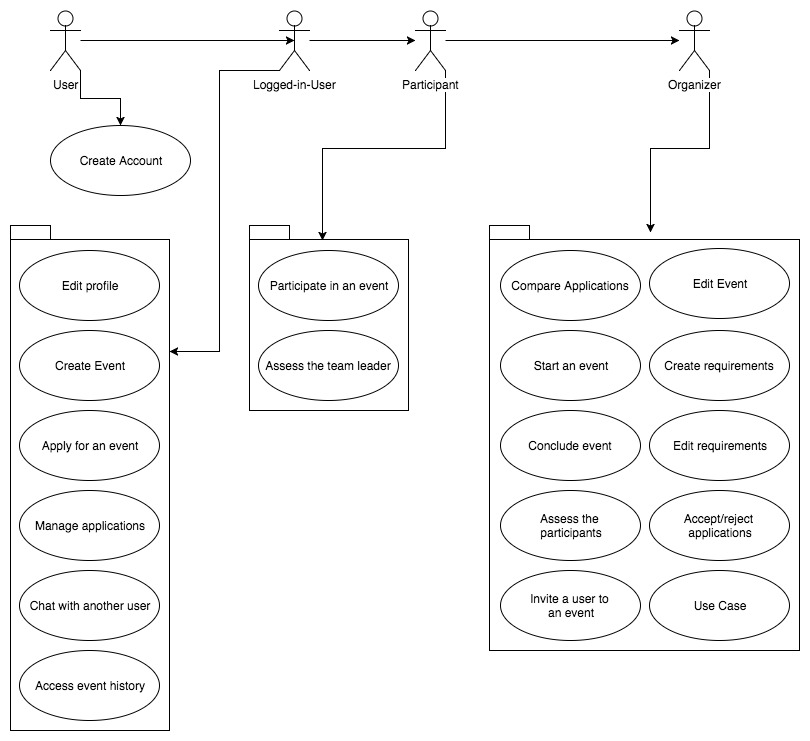
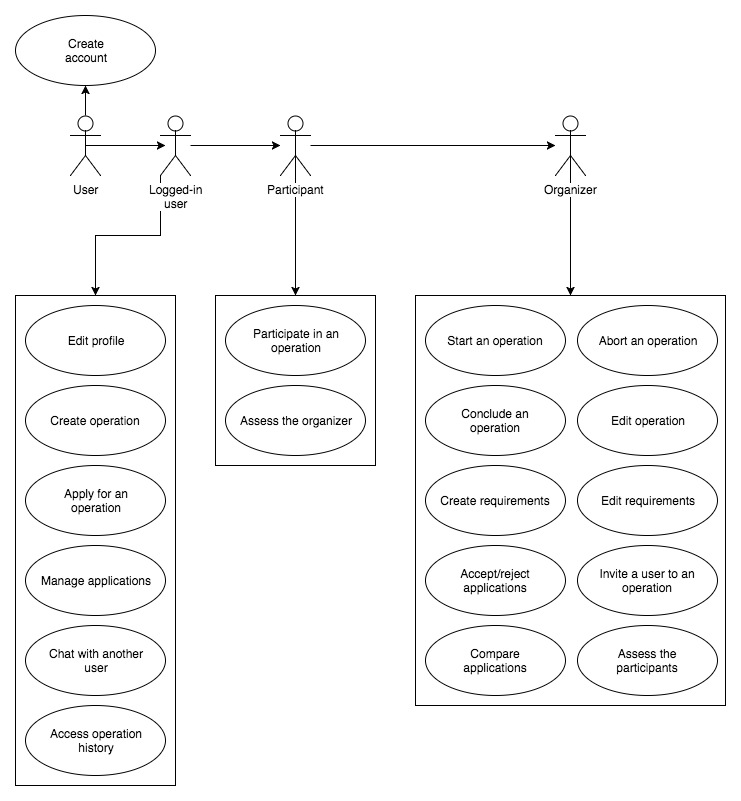
WIP Refactored event to operation, changed UCD

diff --git a/SRS.md b/SRS.md
@@ -3,10 +3,10 @@
 ## 1.1 Purpose
 This document contains the complete SRS of the Project Puerto Rico.
 Project Puerto Rico is going to be designed to make dealing with problems that the government is not talking about easy.
-A web interface is designed to allow users from all over the world to create events and specify the resources they need.
-These events can contain a description, detailed information that only attendees see, and data such as the location and the date of the event.
-Others who wish to participate can apply with their resources and then participate in the event.
-Profiles of users inform about the skills and events they have already participated in, to make it easier to find qualified personnel.
+A web interface is designed to allow users from all over the world to create operations and specify the resources they need.
+These operations can contain a description, detailed information that only attendees see, and data such as the location and the date of the operation.
+Others who wish to participate can apply with their resources and then participate in the operation.
+Profiles of users inform about the skills and operations they have already participated in, to make it easier to find qualified personnel.
 Below every technical aspect and feature is described and/or determined.
 
 ## 1.2 Scope
@@ -14,14 +14,10 @@ This document covers the entire project in every aspect.
 
 ## 1.3 Definitions, Acronyms, Abbreviations
 - **PPR** - Project Puerto Rico
+- **PPRD** - Project Puerto Rico Documentation
 - **UC** - Use Case
-- **UCD** - Use Case Diagram
-- **OUCD** - Overall Use Case Diagram
-- **SAD** - Software Architecture Document
-- **RFC** - Request for Comments
 
 ## 1.4 References
-
 |			Title									                            |	Date		|
 |-------------------------------------------------------------------------------|---------------|
 | [PPR Blog](https://poetzschstroh.wordpress.com/)                              | 21.10.17      |
@@ -32,141 +28,147 @@ This document covers the entire project in every aspect.
 ## 1.5 Overview of the SRS
 The following chapters are about our vision and perspective, the software requirements, the demands we have, licensing and the technical realisation of this project.
 
+
 # 2 Overall Description
 Everywhere in the world exist problems that governments won't solve.
 Many helpers have begun to take on these circumstances to make the world a better place.
 Although the helpers are doing the right thing, their actions are mostly illegal.
 There is no way to organize such relief activities, and to find qualified personnel and resources.
-Our platform is designed to provide a secure way to bring helpers together and organize events.
-Users can represent themselves and their skills using a profile, create events, and specify the resources and helper needed.
+Our platform is designed to provide a secure way to bring helpers together and organize operations.
+Users can represent themselves and their skills using a profile, create operations, and specify the resources and helper needed.
 Others may then apply, and if the project leader considers them to be qualified, participate in the project.
 The following diagram shows the UCs:
-
 [![Overall use case diagram](Pictures/PPR-UseCases.jpg)](Pictures/PPR-UseCases.jpg)
+
 
 # 3 Specific Requirements
 
 ## 3.1 Functionality
-
 The requirements are organized by user.
 
 ### 3.1.1 User
 #### 3.1.1.1 Create account
-A new account is created by the user, making it possible for him to log in and use the service.
 ##### Description
-The user has to type an email and a password combination and click on create new account. He will be directed to his profile page, where he will be able to edit it. 
+A new account is created by the user, making it possible for him to log in and use the service.
+The user has to type an email and a password combination and click on create new account.
+He will be directed to his profile page, where he will be able to edit it. 
 ##### Pre Condition
 The website is shown in the browser
-##### Normal Flow of Events
+##### Normal Flow of Operations
 - A form will open, username and password will be entered
 - An insert query will be sent to the database
 - A notification for success or failure will be shown
 
 #### 3.1.1.2 Edit profile
-The user edits his profile, providing information about himself.
 ##### Description
+The user edits his profile, providing information about himself.
 Editing the profile includes:
 - changing profile pictures
-- available ressources
+- available resources
 - special abilities
 - information of himself/herself (public access)
 ##### Pre Condition
 User has an active account and is already logged in.
-##### Normal Flow of Events
+##### Normal Flow of Operations
 - The edit form will be shown, desired fields will be changed
 - Update query will be sent to the database
 - A notification for success or failure will be shown
 
-#### 3.1.1.3 Create Event
-An event is created by a user, making him the organizer of the event.
+#### 3.1.1.3 Create Operation
 ##### Description
-Every normal user can create new events, to become an organizer. An eventorganizer must provide several informations about the upcoming event, like
-- minimum/maximum/absolute number of participants
+Every normal user can create new operations, making him the organizer of the newly created operation.
+An organizer must provide a good deal of information about the upcoming operation, like
 - required ressources (must have, optional)
-- the public/private(more details) description of the event
+- the public and the public description of the operation
 - the place/location
-The information can be split into a public and a private part. The private part can only be seen by accepted teammembers.
+- the date and time the operation takes place
+The information can be split into a public and a private part. The private part can only be seen by accepted team members.
 ##### Pre Condition
 User has an active account and is already logged in.
-##### Normal Flow of Events
-- The create event form will be shown, required data will be filled in 
+##### Normal Flow of Operations
+- The create operation form will be shown, required data will be filled in 
 - Insert query will be sent to the database
 - A notification for success or failure will be shown
 
-#### 3.1.1.4 Apply for an event
-A user applies for participating in an event as a specified role or providing specified resources.
+#### 3.1.1.4 Apply for an operation
 ##### Description
-The user can apply for every event he likes. He can fill in the optional comment field.
+A user applies for participating in an operation as a specified role or providing specified resources.
+The user can apply for every operation he likes, he can fill in the optional comment field if he wants to.
 ##### Pre Condition
 User has an active account and is already logged in.
-##### Normal Flow of Events
+##### Normal Flow of Operations
 - Apply form will be shown, the user confirms it
-- A mail will be sent to the organizer
+- The organizer will be informed
 
 #### 3.1.1.5 Manage applications
-An overview over submitted applications and the ability to withdraw them is provided.
 ##### Description
-The User will be given the opertunity to view all his applications. If the event has not taken place yet, the user will be given the oppertunity to withdraw it. 
+The User will be given the opportunity to view all his submitted applications.
+If the operation has not taken place yet, the user will be given the opportunity to withdraw it. 
 ##### Pre Condition
-User has an active account and is already logged in. User has applied and was accepted to at least one event.
-##### Normal Flow of Events
+User has an active account and is already logged in.
+User has applied and was accepted to at least one operation.
+##### Normal Flow of Operations
 - Overview will be shown
-- Case withdraw: Eventorganizer will get a notification email
+- Case withdraw: Operationorganizer will get a notification email
 - A notification for success or failure will be shown
 
 #### 3.1.1.6 Chat with another user
-The user can chat with another user by inviting him.
 ##### Description
-All Users will have the oppertunity to chat with eachother. Go on the users profile you want to chat with and send him a chat invitation. If he accepts the invitation, a chat will open.
+The user can chat with another user by inviting him.
+All Users will have the opportunity to chat with each other by going to the users profile they want to chat with and sending them an invitation.
+If they accept the invitation, a chat will be opened.
 ##### Pre Condition
 Both users have active accounts and are already logged in.
-##### Normal Flow of Events
-- Sending email about chat invite to other user
-- accept -> open chat
-- decline -> notification to sender
+##### Normal Flow of Operations
+- A user will invite another user to chat
+- The invited user will be informed
+- Once the invitation is accepted, the chat will open
+- If the invitation is declined, the user that sent it is informed
 
-#### 3.1.1.7 Access event history
-An overview over past events and related information is given.
+#### 3.1.1.7 Access operation history
 ##### Description
-The users will take part in many events, the oraganizer will assess the participant. In this overview the user can see his ratings, and the whole history of the events he was part of. he can view them in detail by clicking on them.
+An overview over past operations and related information is given.
+In this overview the user can see his ratings, and the whole history of operations that he has been a part of.
+He can view them in detail by clicking on them.
 ##### Pre Condition
-User has an active account and is already logged in. User has been accepted to at least one event
-##### Normal Flow of Events
+User has an active account and is already logged in. User has been accepted to at least one operation
+##### Normal Flow of Operations
 - Overview will be shown
+- Once one operation is selected, a detailed view will provide more information
 
 ### 3.1.2 Organizer
-#### 3.1.2.1 Edit event
+#### 3.1.2.1 Edit operation
 ##### Description
-The organizer can edit the event to update provided information like location and time of the event or the description.
+The organizer can edit the operation to update provided information like location and time of the operation or the description.
 ##### Pre Condition
 - The organizer should be logged in the system
-- The organizer should own the event
-##### Normal Flow of Events
-- The organizer will update event parameters such as description, date etc.
+- The organizer should own the operation
+##### Normal Flow of Operations
+- The organizer will update operation parameters such as description, date etc.
 - The organizer will discard/accept the changes
 - Changes will be published automatically
 
 #### 3.1.2.2 Create requirements
 ##### Description
-Once the organizer has created an event, he can add specific requirements.
-The event can require helpers or equipment (cars etc.).
+Once the organizer has created an operation, he can add specific requirements.
+The operation can require helpers or equipment (cars etc.).
 The requirements can be as specific or generic as the organizer wants them to be.
 ##### Pre Condition
 - The organizer should be logged in the system
-- The organizer should own the event
-##### Normal Flow of Events
+- The organizer should own the operation
+##### Normal Flow of Operations
 - The organizer will create a new requirement
 - The new requirement will be filled with helpful information
 - The requirement will be published by the organizer
 
 #### 3.1.2.3 Edit requirements
 ##### Description
-After requirements have been added to an event, the organizer has the possibility to change them, if no applicant has been accepted yet.
+After requirements have been added to an operation, the organizer has the possibility to change them, if no applicant has been accepted yet.
 He is able to change the requirement in any way he wants; deletion is possible.
 ##### Pre Condition
 - The organizer should be logged in the system
-- The organizer should own the event
-##### Normal Flow of Events
+- The organizer should own the operation
+##### Normal Flow of Operations
 - The organizer will update requirement parameters
 - The organizer will discard/accept the changes
 - Made changes will be published automatically
@@ -177,8 +179,8 @@ Once a user has applied to meet a requirement, the organizer can look into the a
 Based on the information provided, the organizer can decide whether he wants to accept or discard an application.
 ##### Pre Condition
 - The organizer should be logged in the system
-- The organizer should own the event
-##### Normal Flow of Events
+- The organizer should own the operation
+##### Normal Flow of Operations
 - The organizer will be informed about a new application
 - The organizer will look at the applicant's profile
 - The organizer will accept/reject the application
@@ -191,89 +193,92 @@ If multiple users decided to apply, the organizer can compare multiple applicati
 He can accept one of the applications.
 ##### Pre Condition
 - The organizer should be logged in the system
-- The organizer should own the event
-##### Normal Flow of Events
+- The organizer should own the operation
+##### Normal Flow of Operations
 - The organizer will compare multiple applications
 - Important information will be highlighted
 - The organizer will be able to accept one of the applications, automatically rejecting all the other applications
 - The applicants will be informed
 
-#### 3.1.2.6 Start an event
+#### 3.1.2.6 Start an operation
 ##### Description
-If some of the requirements aren't met, the organizer can still start the event manually.
+If some of the requirements aren't met, the organizer can still start the operation manually.
 ##### Pre Condition
 - The organizer should be logged in the system
-- The organizer should own the event
-##### Normal Flow of Events
-- The organizer will start the event
+- The organizer should own the operation
+##### Normal Flow of Operations
+- The organizer will start the operation
 - All participants are informed
 - Applications won't be possible
 
-#### 3.1.2.6 Abort an event
+#### 3.1.2.6 Abort an operation
 ##### Description
-If the organizer thinks the event won't be successful, he can abort the event manually.
+If the organizer thinks the operation won't be successful, he can abort the operation manually.
 ##### Pre Condition
 - The organizer should be logged in the system
-- The organizer should own the event
-##### Normal Flow of Events
-- The organizer will abort the event
+- The organizer should own the operation
+##### Normal Flow of Operations
+- The organizer will abort the operation
 - All participants are informed
-- The organizer won't be able to change the event in any way
+- The organizer won't be able to change the operation in any way
 
-#### 3.1.2.8 Conclude event
+#### 3.1.2.8 Conclude operation
 ##### Description
-After an event has been concluded, the organizer can mark it as concluded.
-This makes it possible for him to mark the event as successful or failed.
+After an operation has been concluded, the organizer can mark it as concluded.
+This makes it possible for him to mark the operation as successful or failed.
 ##### Pre Condition
 - The organizer should be logged in the system
-- The organizer should own the event
-##### Normal Flow of Events
-- The organizer concludes the event
-- The organizer marks the event either as "succeeded" or "failed"
-- The organizer won't be able to change the event in any way
+- The organizer should own the operation
+##### Normal Flow of Operations
+- The organizer concludes the operation
+- The organizer marks the operation either as "succeeded" or "failed"
+- The organizer won't be able to change the operation in any way
 - All participants will be informed
 
 #### 3.1.2.9 Assess the participants
 ##### Description
-After an event has been concluded, the organizer can assess the participants.
+After an operation has been concluded, the organizer can assess the participants.
 He can rate them on a scale, and leave a written review.
 The reviews will be considered by others in search of helpers and maybe our ranking system.
 ##### Pre Condition
 - The organizer should be logged in the system
-- The organizer should own the event
-##### Normal Flow of Events
+- The organizer should own the operation
+##### Normal Flow of Operations
 - The organizer will assess the participants, providing a rating and possibly a written review
 - The assessed participant will be informed
 
-#### 3.1.2.10 Invite a user to an event
+#### 3.1.2.10 Invite a user to an operation
 ##### Description
 If the organizer is in need of a very specific person or if he wants them to be in his team, he can invite them manually.
 The invitation has to meet a requirement.
 ##### Pre Condition
 - The organizer should be logged in the system
-- The organizer should own the event
+- The organizer should own the operation
 - A requirement should exist that could be fulfilled by the invited user
-##### Normal Flow of Events
+##### Normal Flow of Operations
 - The organizer will invite a person as a helper meeting a requirement
 - The invited user will be informed
 - Applications for the requirement will be blocked until the invited user accepts/rejects the invitation
 - The organizer will be informed about the outcome of the invitation
 
 ### 3.1.3 Participant
-#### 3.1.3.1 Join the event (access hidden information, join the team chat)
+#### 3.1.3.1 Join the operation (access hidden information, join the team chat)
 ##### Description
-After an application has been accepted, the user can access the team chat and hidden information of the event provided by the organizer.
+After an application has been accepted, the user can access the team chat and hidden information of the operation provided by the organizer.
 ##### Pre Condition
-User has an active account and is already logged in. User was accepted by an organizer.
-##### Normal Flow of Events
+User has an active account and is already logged in.
+User was accepted by an organizer.
+##### Normal Flow of Operations
 - The user will get a confirmation email
 
 #### 3.1.3.2 Assess team leaders
 ##### Description
-After the event is concluded, participants can assess the team leader.
+After the operation is concluded, participants can assess the team leader.
 ##### Pre Condition
-User is logged in with an active account. User was part of the eventteam. Event is finished.
-##### Normal Flow of Events
+User is logged in with an active account.
+User was part of the operationteam.
+Operation is finished.
+##### Normal Flow of Operations
 - The form for the assessment will be shown
 - Email notification will be sent to the team leader
 
@@ -282,7 +287,7 @@ User is logged in with an active account. User was part of the eventteam. Event 
 ### 3.2.1 30 minute training time
 #### Description
 It shouldn't take a user longer than 30 minutes to get a complete overview over the functions of our platform.
-After 30 minutes, a user should be able to participate in an event, to create an event and requirements and to manage applications and assessments. 
+After 30 minutes, a user should be able to participate in an operation, to create an operation and requirements and to manage applications and assessments. 
 #### Pre Condition
 - The user owns a PC that is connected to the internet
 - The user knows how to fully operate a PC
@@ -383,6 +388,7 @@ Applied standards:
 
 Used recommendations:
 - [HTML5](https://www.w3.org/TR/html5/)
+
 
 # 4 Supporting Information
 To get the latest news about the project, please visit our [blog](poetzschstroh.wordpress.com) or have a look at the [links](#14-references) above 
